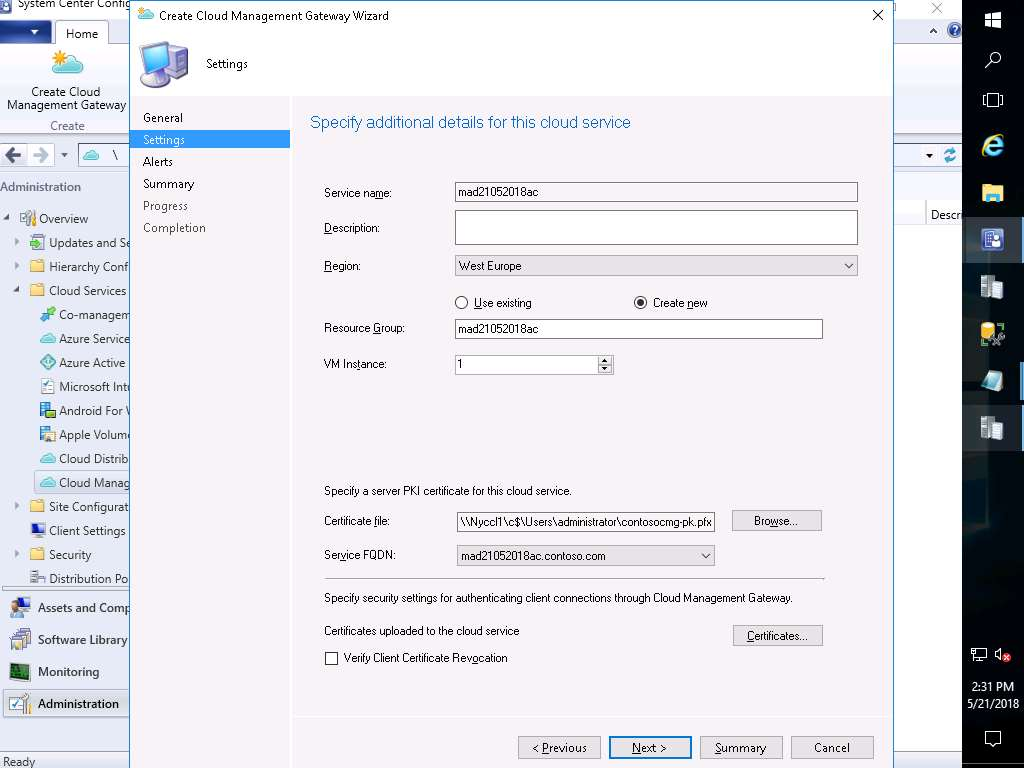
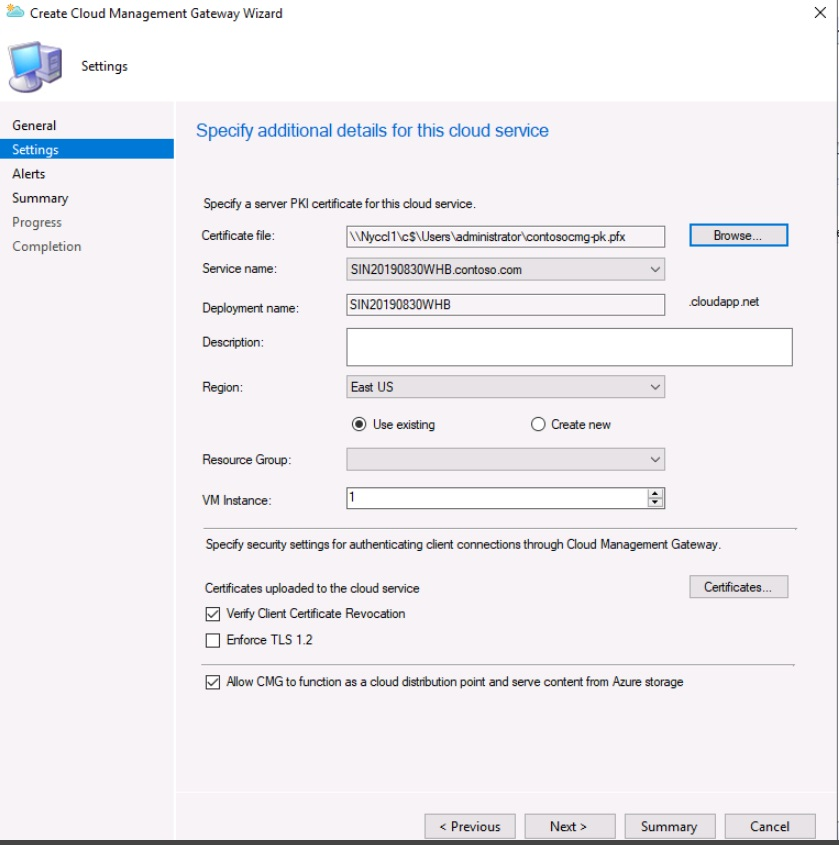
Update screenshots due to UI changes when configuring CMG

diff --git a/instructions.md b/instructions.md
@@ -451,26 +451,23 @@ and click Register
 ###  Cloud Management Gateway Deployment
 1. [] Go to Administration Workspace on the Configuration Manager Console.
 1. [] Navigate to Updates and Servicing > Features
-1. [] Select Cloud Management Gateway and right-click to *Turn on*
+1. [] Verify Cloud Management Gateway feature is turned ON
 !IMAGE[Screenshot](Screens/yq2w5yra.jpg)
-1. [] Click yes when prompted
-!IMAGE[Screenshot](Screens/fzyvqlov.jpg)
-1. [] Close the console, wait approx. 20 seconds and open the Configmgr console again
 1. [] Go to Administration workspace > Cloud Services 
 1. [] Right-click on Cloud Management Gateway and click **Create Cloud Management Gateway**
 1. [] On Subscription admin account click **Sign-In...** and enter your Office365 Global Admin account (e.g. admin@lod....onmicrosoft.com)
 1. [] Wait until the App Information will be populated and click **Next**
-1. [] Change the Resource Group to **Create New**
-!IMAGE[Screenshot](Screens/tcmvegdc.jpg)
 1. []  On the Settings page of the wizard, first click Browse and select the .PFX file for the CMG server authentication certificate. The name from this certificate populates the required Service FQDN and Service name fields. Type +++\\\\NYCCL1\C$\\USers\\Administrator\\contosocmg-pk.pfx+++ and click **Open**
 1. [] Type +++Pa$$w0rd+++ for the password and click **OK**
 !IMAGE[Screenshot](Screens/w2obnrtc.jpg)
+1. [] Change the Resource Group to **Create New**
 1. [] Click on **Certificates...** and then click **Add** and browse for the +++\\\\NYCCL1\C$\\Users\\Administrator\\ContosoRootCA.cer+++ and click **Open**, then click **OK**
 !IMAGE[Screenshot](Screens/pykfvvbd.jpg)
 1. [] UNCHECK the **Verify Client Certificate Revocation** 
 1. [] Check **Allow CMG to function as cloud distribution point..** and click **Next**
-1. [] Leave default and click **Next** twice then **Close**
 !IMAGE[vcqj2i9g.jpg](vcqj2i9g.jpg)
+1. [] Leave default and click **Next** twice then **Close**
+
 
 Configuration Manager starts setting up the service. After you close the wizard, it will take between five to 15 minutes to provision the service completely in Azure. Check the Status column for the new CMG to determine when the service is ready. 
 !IMAGE[m0lg8chn.jpg](m0lg8chn.jpg)
